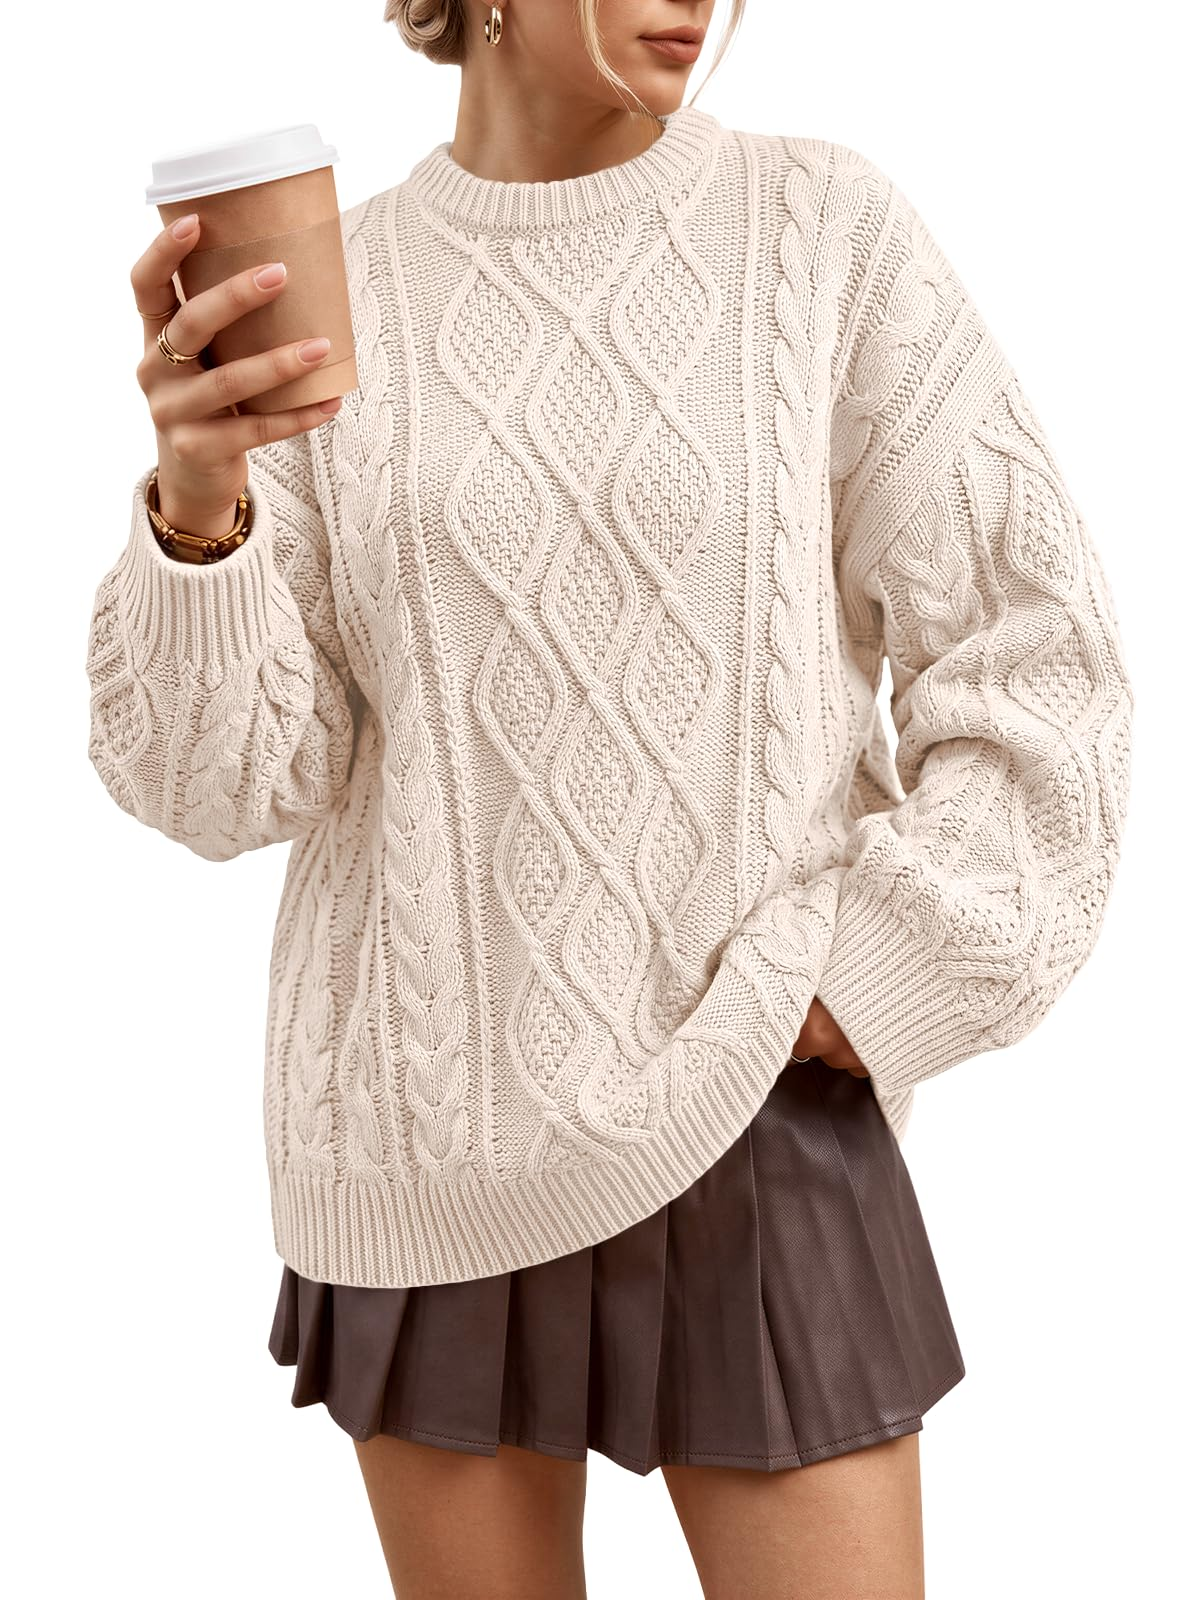
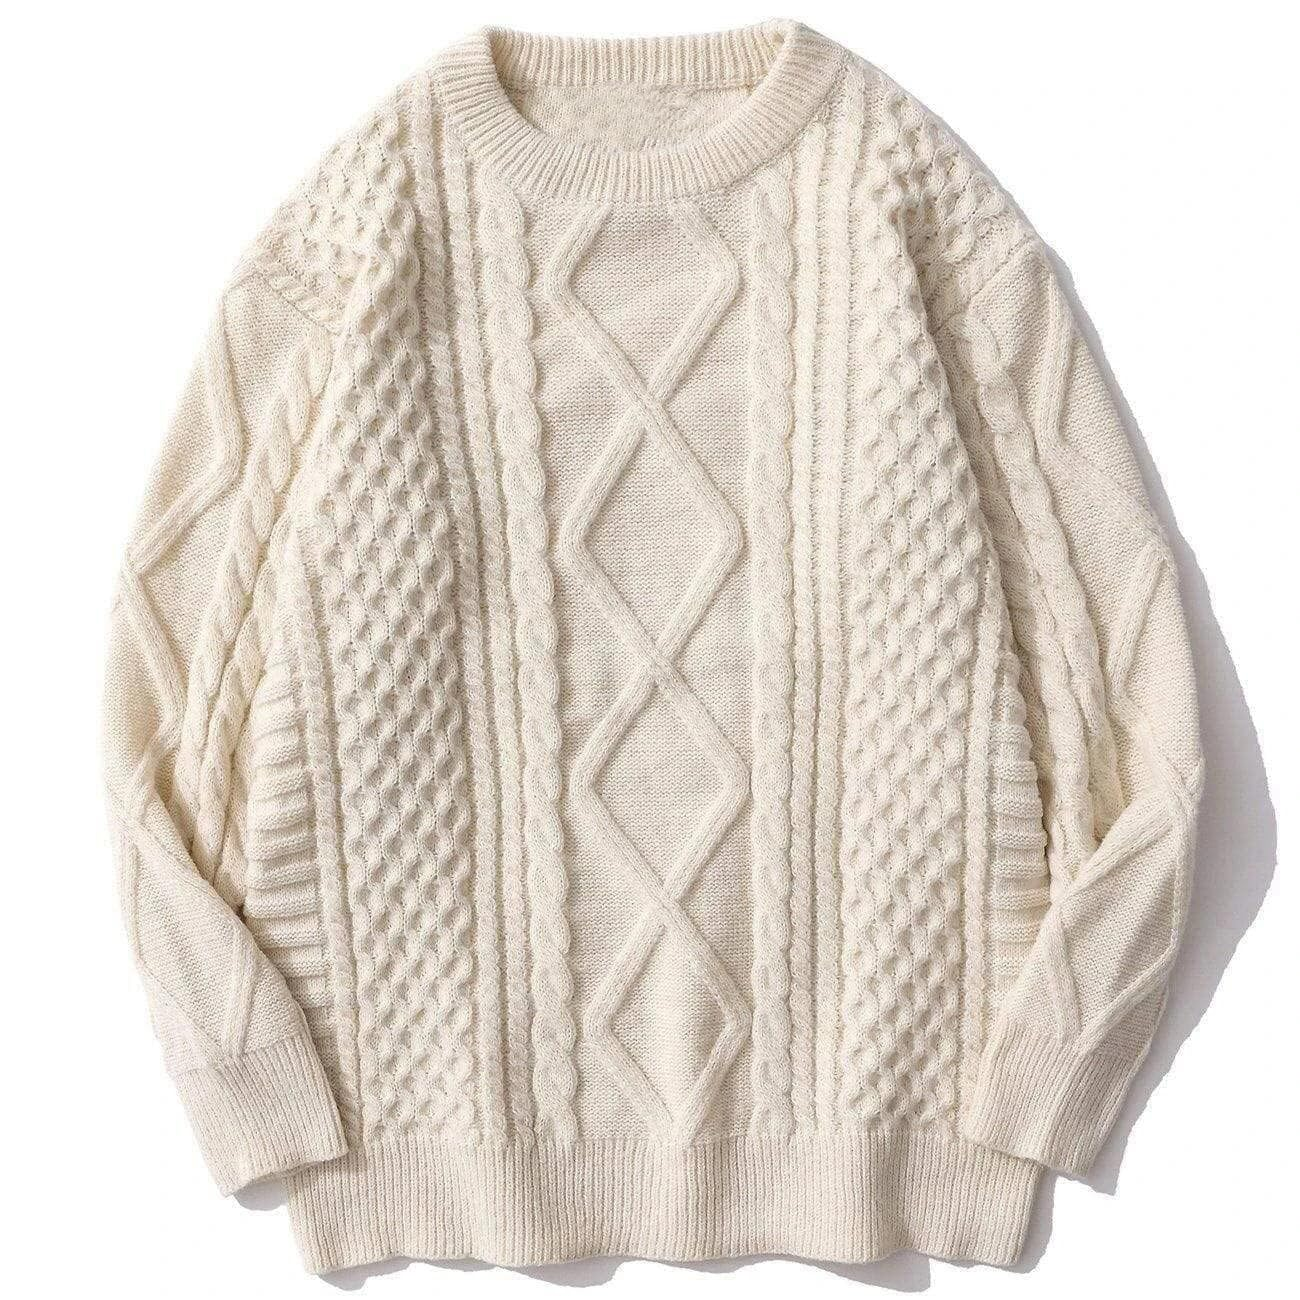
Swap sweater/trousers to person-free product photos in cozy-autumn-coffee-run
The previously linked sweater (B0FQBMQBW8) and trousers (B0FQJPB4FP) only had
on-model gallery photos, showing a person's body in the collage. Replaced both
with real, verified listings that use a flat/ghost-mannequin product photo
instead (sweater: B0CNLPV5TP, trousers: B0GCDPC93M), rebuilt the collage, and
regenerated the look page.

diff --git a/looks/cozy-autumn-coffee-run/index.html b/looks/cozy-autumn-coffee-run/index.html
@@ -70,7 +70,7 @@
         "category": "Sweater",
         "offers": {
           "@type": "Offer",
-          "url": "https://www.amazon.ae/dp/B0FQBMQBW8?tag=exquisitesila-21",
+          "url": "https://www.amazon.ae/dp/B0CNLPV5TP?tag=exquisitesila-21",
           "availability": "https://schema.org/InStock"
         }
       }
@@ -84,7 +84,7 @@
         "category": "Trousers",
         "offers": {
           "@type": "Offer",
-          "url": "https://www.amazon.ae/dp/B0FQJPB4FP?tag=exquisitesila-21",
+          "url": "https://www.amazon.ae/dp/B0GCDPC93M?tag=exquisitesila-21",
           "availability": "https://schema.org/InStock"
         }
       }
@@ -204,14 +204,14 @@
               <span class="shop-slot">Sweater</span>
               <span class="shop-label">Oversized Cable Knit Crewneck Sweater</span>
             </div>
-            <a class="shop-link" href="https://www.amazon.ae/dp/B0FQBMQBW8?tag=exquisitesila-21" target="_blank" rel="sponsored nofollow noopener">View on Amazon →</a>
+            <a class="shop-link" href="https://www.amazon.ae/dp/B0CNLPV5TP?tag=exquisitesila-21" target="_blank" rel="sponsored nofollow noopener">View on Amazon →</a>
           </li>
           <li>
             <div>
               <span class="shop-slot">Trousers</span>
               <span class="shop-label">High-Waisted Pleated Wide-Leg Trousers</span>
             </div>
-            <a class="shop-link" href="https://www.amazon.ae/dp/B0FQJPB4FP?tag=exquisitesila-21" target="_blank" rel="sponsored nofollow noopener">View on Amazon →</a>
+            <a class="shop-link" href="https://www.amazon.ae/dp/B0GCDPC93M?tag=exquisitesila-21" target="_blank" rel="sponsored nofollow noopener">View on Amazon →</a>
           </li>
           <li>
             <div>

diff --git a/assets/js/outfits.js b/assets/js/outfits.js
@@ -16,12 +16,12 @@ const OUTFITS = [
       {
         "slot": "Sweater",
         "label": "Oversized Cable Knit Crewneck Sweater",
-        "amazon_url": "https://www.amazon.ae/dp/B0FQBMQBW8?tag=exquisitesila-21"
+        "amazon_url": "https://www.amazon.ae/dp/B0CNLPV5TP?tag=exquisitesila-21"
       },
       {
         "slot": "Trousers",
         "label": "High-Waisted Pleated Wide-Leg Trousers",
-        "amazon_url": "https://www.amazon.ae/dp/B0FQJPB4FP?tag=exquisitesila-21"
+        "amazon_url": "https://www.amazon.ae/dp/B0GCDPC93M?tag=exquisitesila-21"
       },
       {
         "slot": "Bag",

diff --git a/scripts/apply_real_products.py b/scripts/apply_real_products.py
@@ -13,8 +13,8 @@ HEADERS = {"User-Agent": "Mozilla/5.0 (Windows NT 10.0; Win64; x64)"}
 
 # (outfit slug, piece slot, asin, image_url)
 PICKS = [
-    ("cozy-autumn-coffee-look-01", "Sweater", "B0FQBMQBW8", "https://m.media-amazon.com/images/I/81voSrWrOHL._AC_SY445_.jpg"),
-    ("cozy-autumn-coffee-look-01", "Trousers", "B0FQJPB4FP", "https://m.media-amazon.com/images/I/61UpAQ-QTcL._AC_SY445_.jpg"),
+    ("cozy-autumn-coffee-look-01", "Sweater", "B0CNLPV5TP", "https://m.media-amazon.com/images/I/81Mnz9MlHBL._AC_SX385_.jpg"),
+    ("cozy-autumn-coffee-look-01", "Trousers", "B0GCDPC93M", "https://m.media-amazon.com/images/I/71GablDqxHL._AC_SY445_.jpg"),
     ("cozy-autumn-coffee-look-01", "Bag", "B0FZ7K9G9Y", "https://m.media-amazon.com/images/I/61KeYdGiZBL._AC_SX385_.jpg"),
     ("cozy-autumn-coffee-look-01", "Shoes", "B08Z7KMD2F", "https://m.media-amazon.com/images/I/71bkxmdcZSL._AC_SY500_.jpg"),
     ("cozy-autumn-coffee-look-01", "Watch", "B008UVVL9K", "https://m.media-amazon.com/images/I/61VqwetbFcL._AC_SX522_.jpg"),
